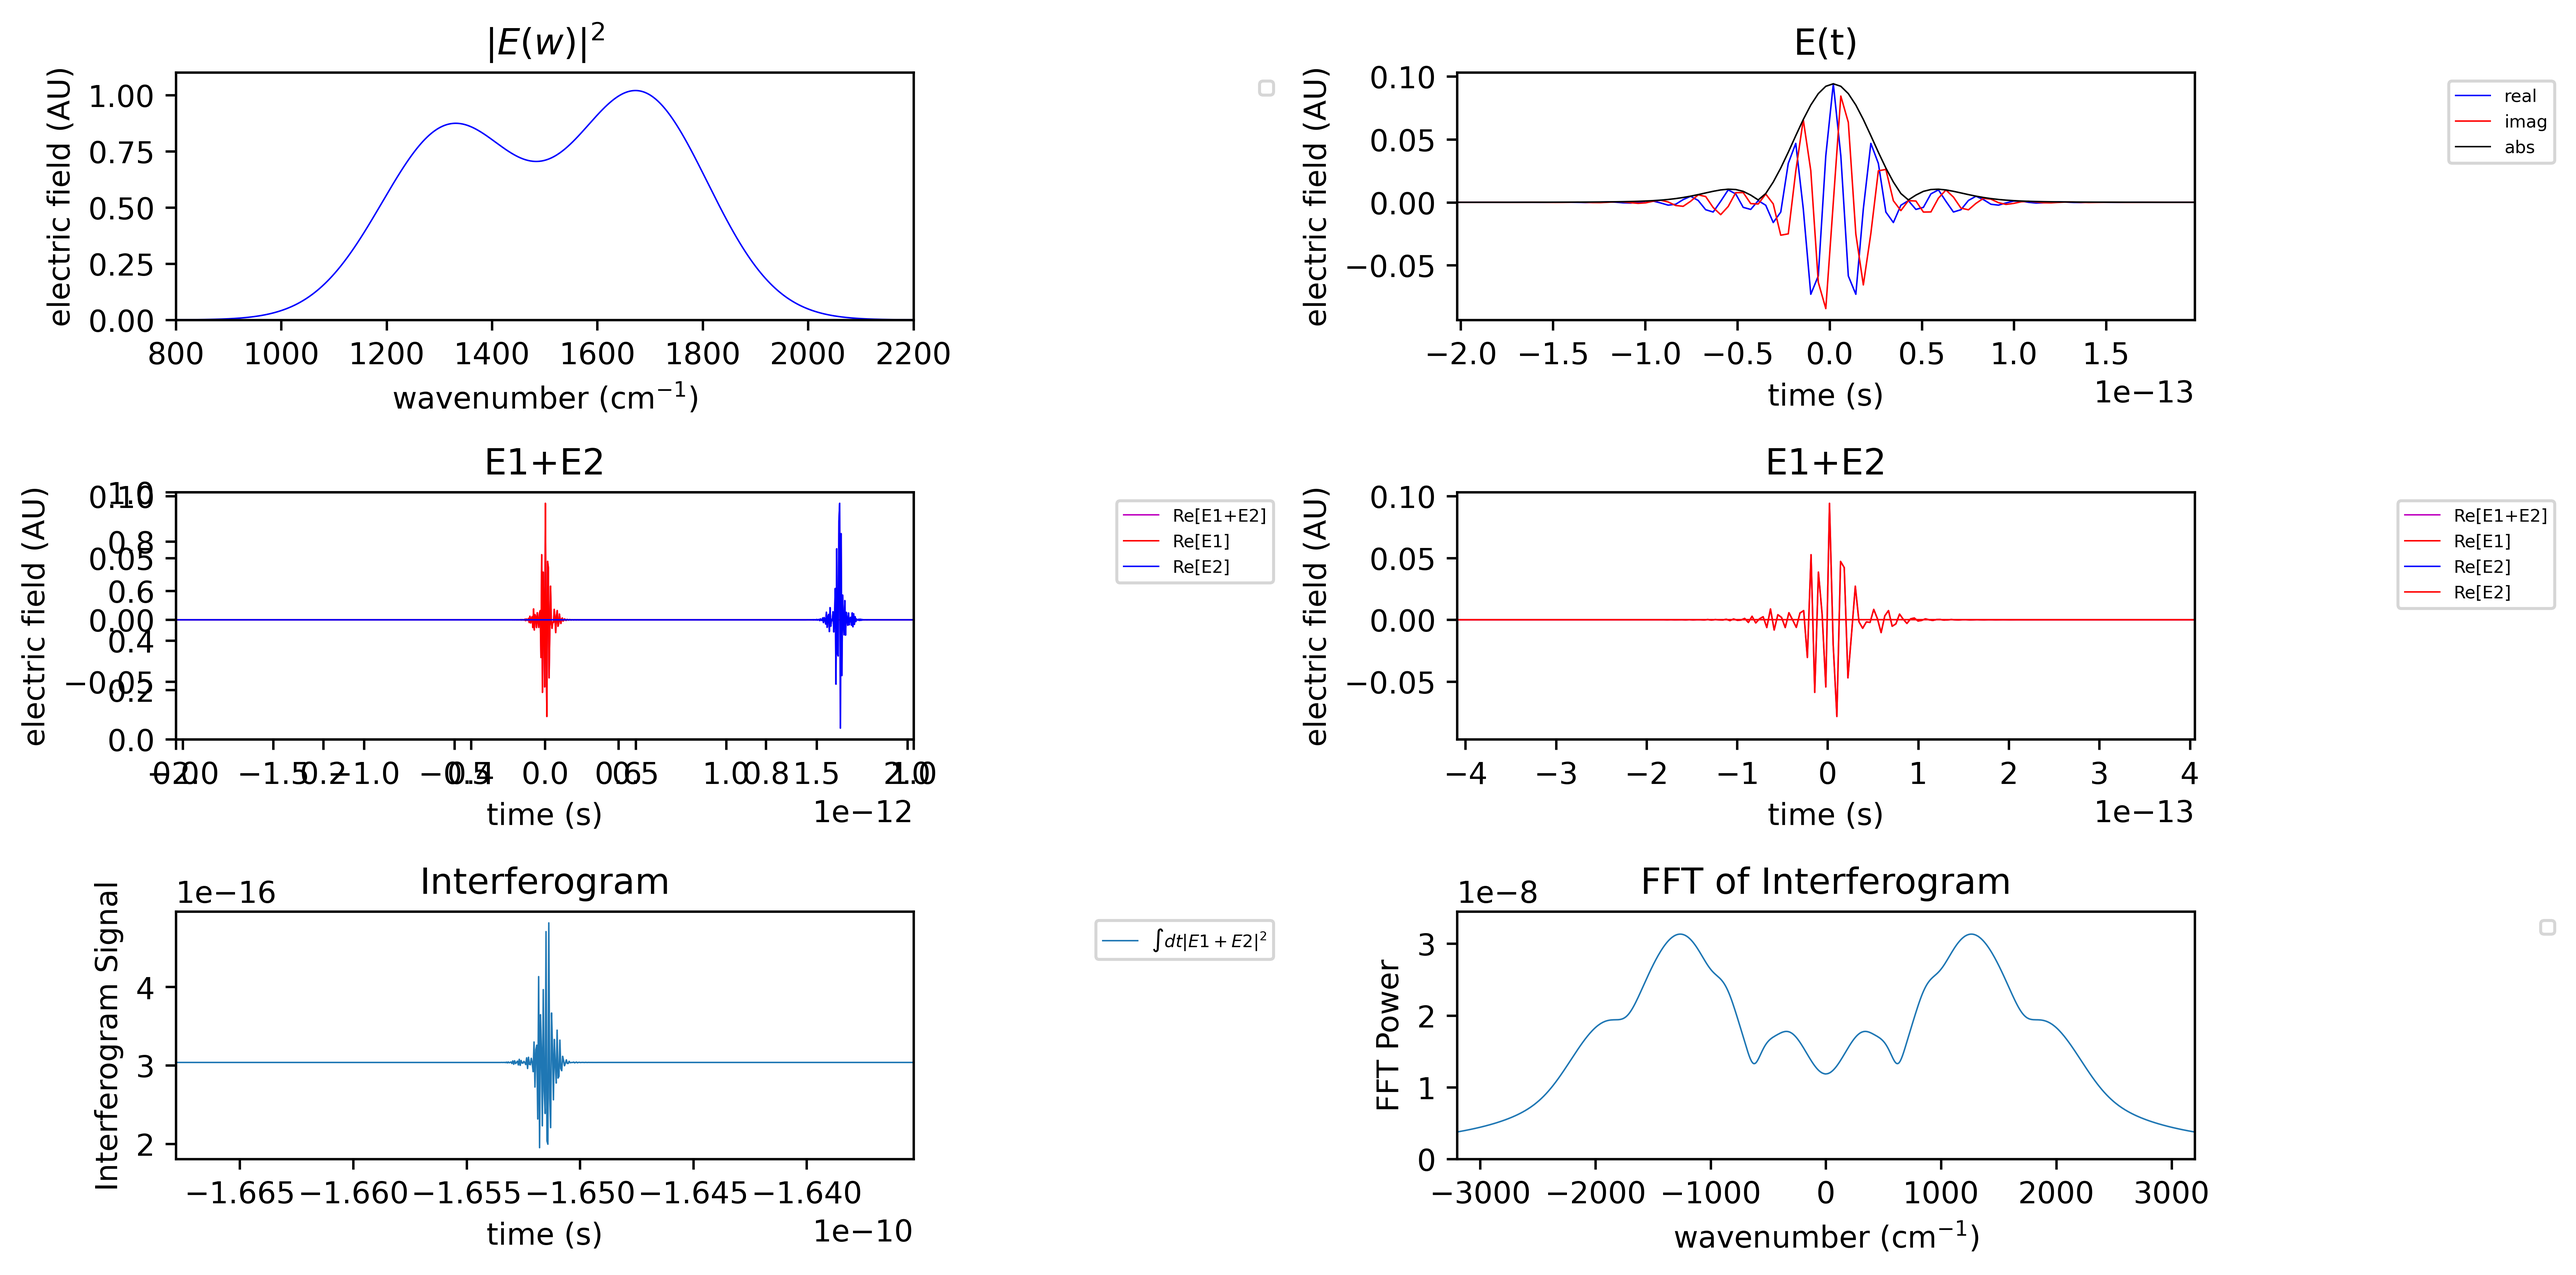
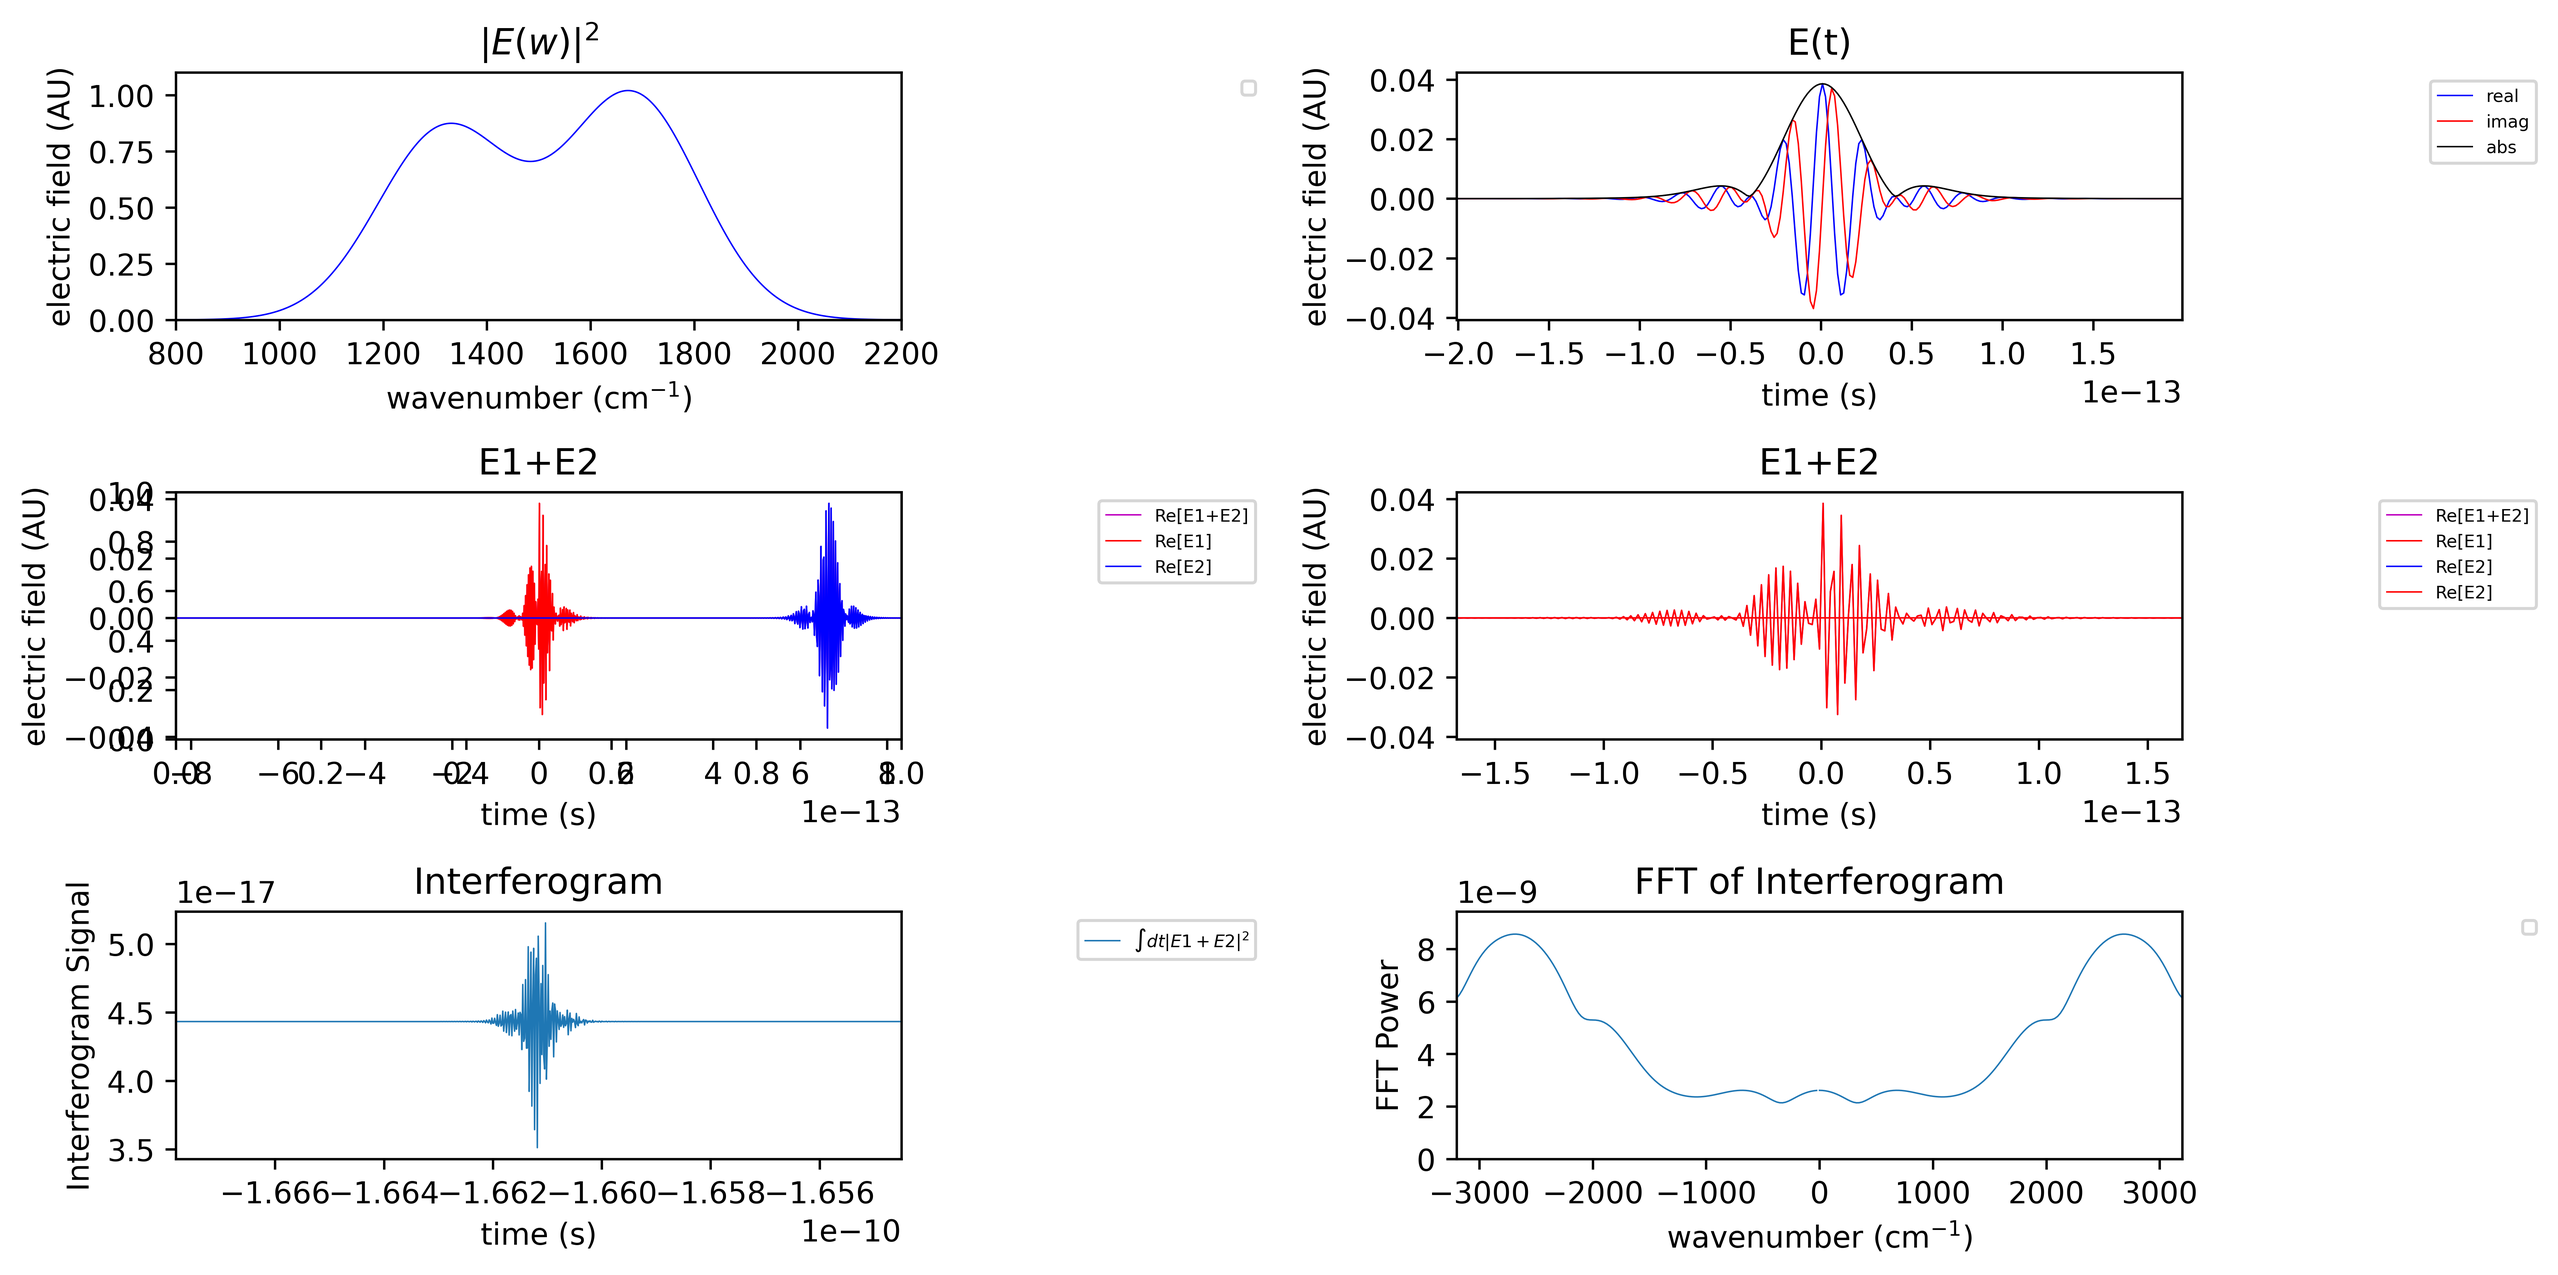
increased resolution

diff --git a/interf.py b/interf.py
@@ -22,7 +22,7 @@ def main(args):
     ##Define BBIR spectrum
     c = 29979245800.0 #speed of light in cm/s
     _to_ps = 1.0e12 # convert from s to ps
-    w = make_w_axis(0.0,0.1,8192.0)#define frequency axis
+    w = make_w_axis(0.0,0.1,20000.0)#define frequency axis
     mu1, mu2 = 1320.0, 1680.0 #peak centers for the spectrum
     sig1, sig2 = 130.0, 130.0 #peak widths
     sig_w = 0.85*gaussian(w,mu1,sig1) + 1.0*gaussian(w,mu2,sig2) #define the spectrum
